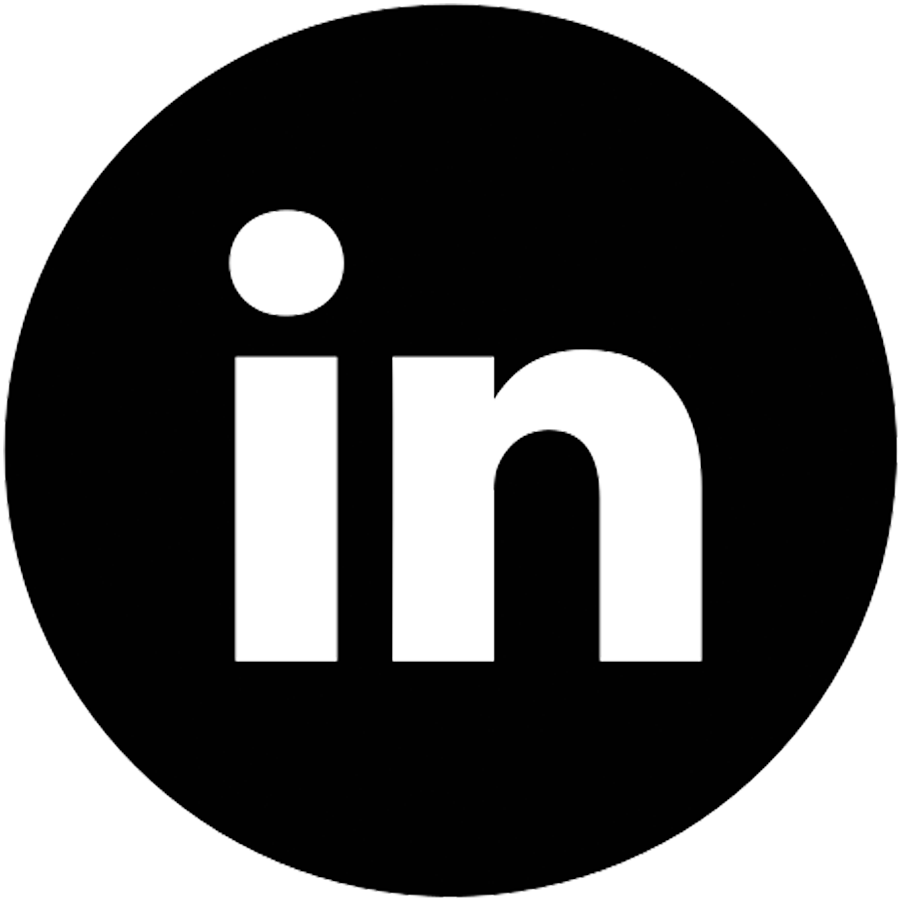
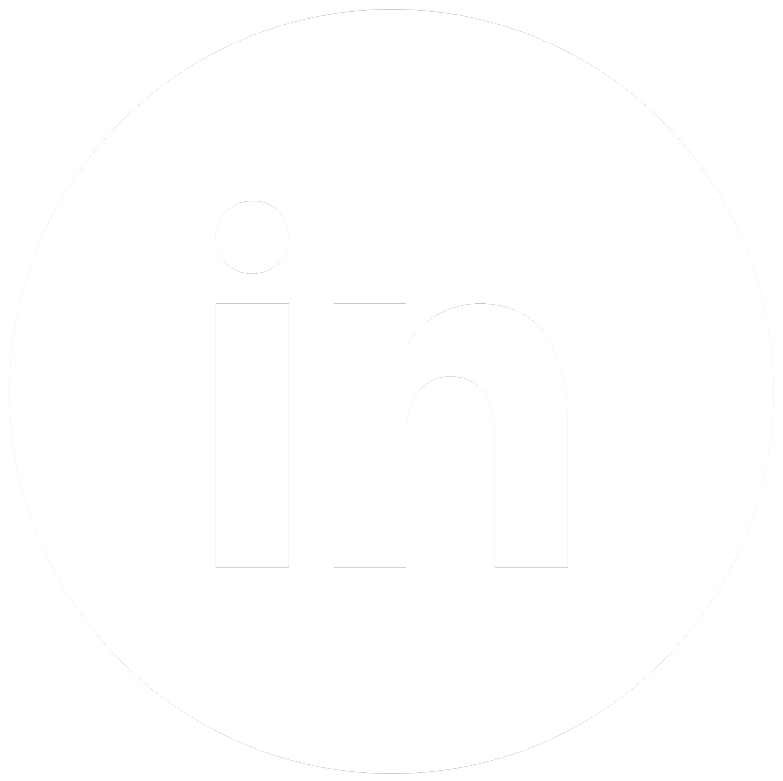
Removed unused images and changed the images to the color white

diff --git a/src/components/contact/contact.js b/src/components/contact/contact.js
@@ -1,7 +1,7 @@
 import $ from 'jquery';
-import email from '../../images/email.svg';
+import email from '../../images/email.png';
 import linkedin from '../../images/linkedin.png';
-import github from '../../images/gitblack.svg';
+import github from '../../images/github.png';
 import './contact.scss';
 
 const contactPage = () => {
